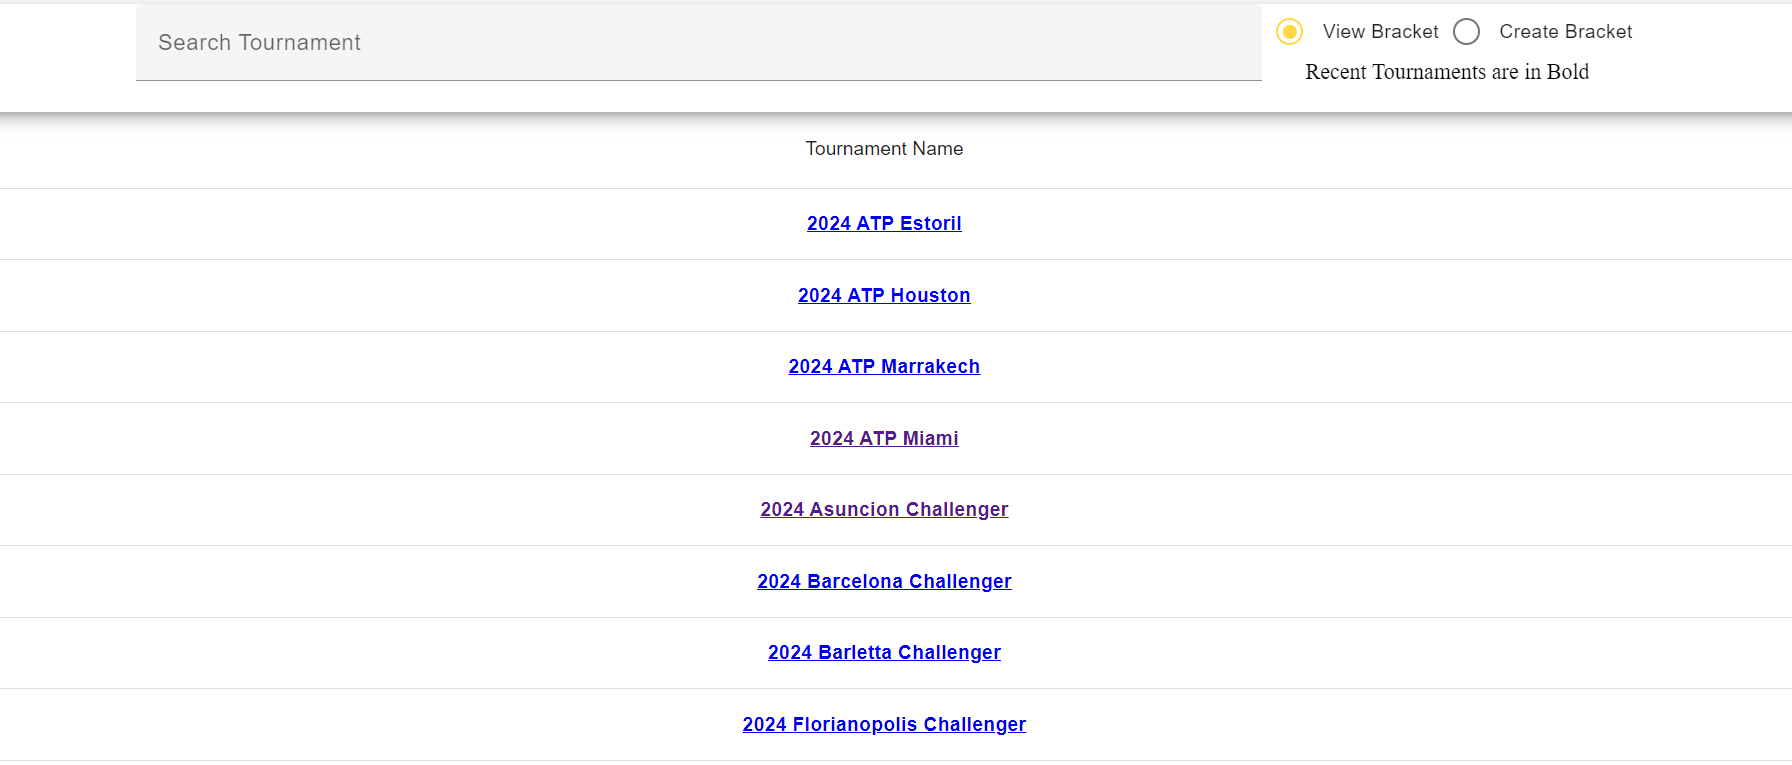
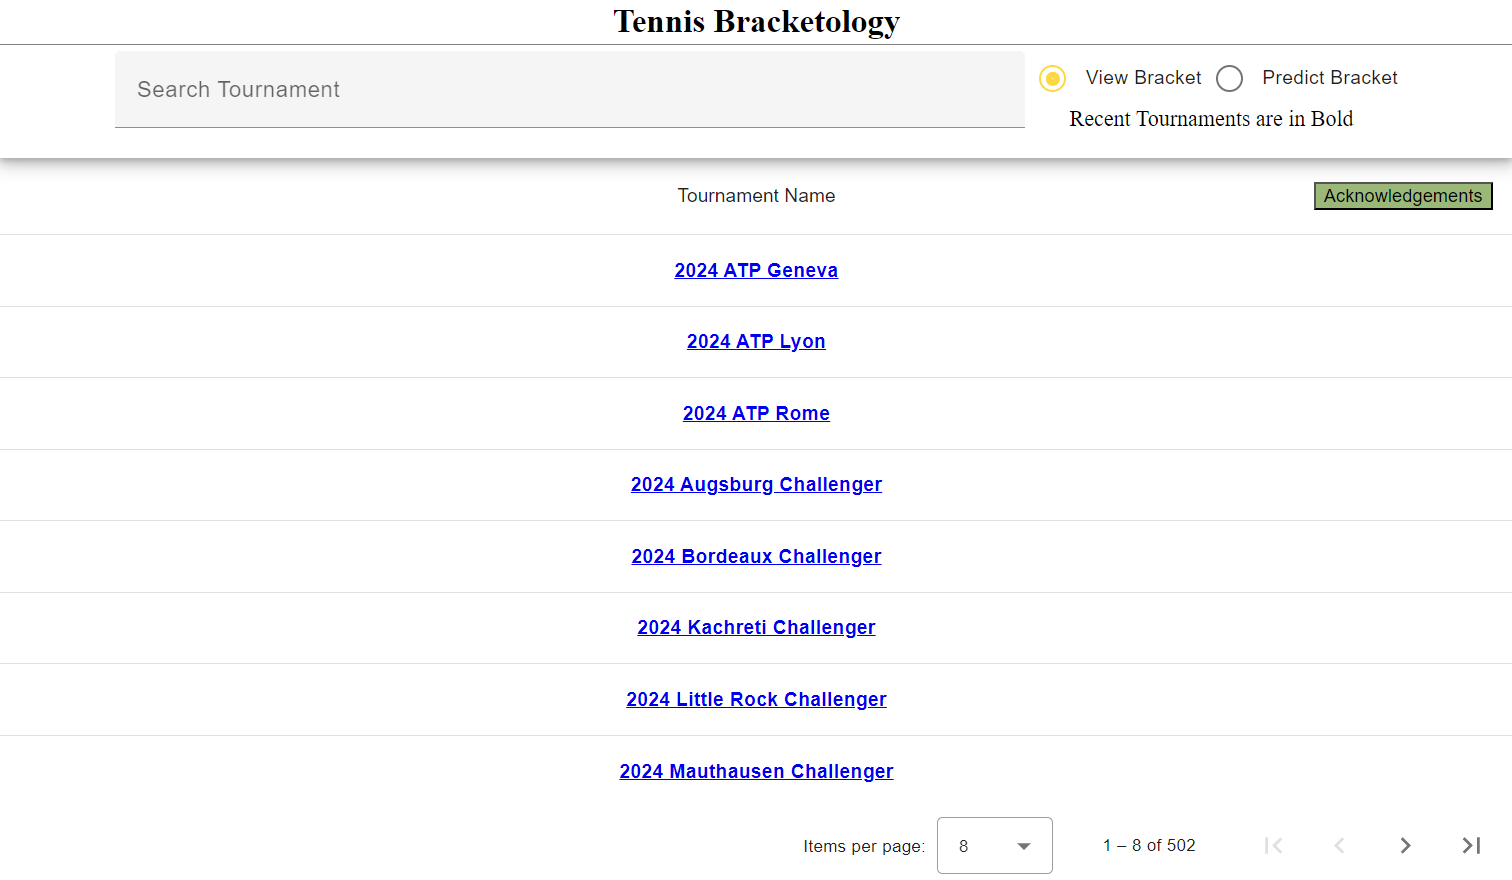
Update README with new features

diff --git a/README.md b/README.md
@@ -9,12 +9,16 @@
 *** for contributors-url, forks-url, etc. This is an optional, concise syntax you may use.
 *** https://www.markdownguide.org/basic-syntax/#reference-style-links
 -->
-<!-- [![Contributors][contributors-shield]][contributors-url]
+<div align="center">
+
+[![Contributors][contributors-shield]][contributors-url]
 [![Forks][forks-shield]][forks-url]
 [![Stargazers][stars-shield]][stars-url]
 [![Issues][issues-shield]][issues-url]
-[![CC BY-NC-SA 4.0 License][license-shield]][license-url]
-[![LinkedIn][linkedin-shield]][linkedin-url] -->
+[![LinkedIn][linkedin-shield]][linkedin-url]
+<!-- [![CC BY-NC-SA 4.0 License][license-shield]][license-url] -->
+
+</div>
 
 
 
@@ -48,6 +52,9 @@
   <summary>Table of Contents</summary>
   <ol>
     <li>
+      <a href="#latest-updates">Latest Updates</a>
+    </li>
+    <li>
       <a href="#about-the-project">About The Project</a>
       <ul>
         <li><a href="#built-with">Built With</a></li>
@@ -60,7 +67,14 @@
         <li><a href="#installation">Installation</a></li>
       </ul>
     </li>
-    <li><a href="#usage">Usage</a></li>
+    <li>
+      <a href="#usage">Usage</a>
+      <ul>
+        <li><a href="#choose-tournament">Choose Tournament</a></li>
+        <li><a href="#view-bracket">View Bracket</a></li>
+        <li><a href="#predict-bracket">Predict Bracket</a></li>
+      </ul>
+    </li>
     <li><a href="#roadmap">Roadmap</a></li>
     <li><a href="#contributing">Contributing</a></li>
     <li><a href="#license">License</a></li>
@@ -69,15 +83,19 @@
   </ol>
 </details>
 
+<!-- LATEST UPDATES -->
+## Latest Updates
+* View tournament bracket from any seeded player's perspective
+* View tournament bracket from the Quarterfinals and Onwards
+* Gives feedback on correctly and incorrectly predicted matches
+* Shows overall prediction rate for the tournament bracket
 
+<p align="right">(<a href="#readme-top">back to top</a>)</p>
 
 <!-- ABOUT THE PROJECT -->
 ## About The Project
 
 View from a variety of tennis tournaments since 2023, predict a tournament bracket, and gain insights on your match predictions. I created this application to create a visual display for the tournaments being tracked on [Tennis Abstract](https://www.tennisabstract.com/). As well, I wanted to challenge myself in learning the skills needed on how to create a full-stack application and what to do before making an application public. See <a href="#usage">Usage</a> to understand how to use the application. I hope this application is helpful to you!
-
-<p align="right">(<a href="#readme-top">back to top</a>)</p>
-
 
 
 ### Built With
@@ -117,7 +135,7 @@ This is an example of how to list things you need to use the software and how to
    ```sh
    ex. python3 -m pip install -r .\Tennis-Bracketology\tennis_backend\requirements.txt (Windows)
    ```
-4. Generate Django secret key for Tennis-Bracketology/tennis_backend/settings.py file. <br> Run Tennis-Bracketology/tennis_backend/secret_key.py for Django secret key. <br> Edit config.ini file with Django secret key. <br> View config.ini.example file for help.
+4. Generate Django secret key for Tennis-Bracketology/tennis_backend/settings.py file. <br> Run Tennis-Bracketology/tennis_backend/secret_key.py for Django secret key. <br> Create a config.ini file with Django secret key. <br> View config.ini.example file for help.
    ```sh
    ex. python3 .\secret_key.py (Windows)
    ```
@@ -143,20 +161,32 @@ This is an example of how to list things you need to use the software and how to
 <!-- USAGE EXAMPLES -->
 ## Usage
 
-<h3><b>Choose Tournament</b></h3>
+### Choose Tournament
+<!-- <h3><b>Choose Tournament</b></h3> -->
 
 ![Choose Tournament Screenshot][choose-tournament-screenshot]
-* Choose from one of the many tournaments displayed. Recent tournaments are bolded for your convenience. Choose to view/predict a tournament bracket in the top right before clicking on a tournament.
+* Choose from one of the many tournaments displayed. Recent tournaments are bolded for your convenience. Choose to view/predict a tournament bracket using the buttons in the top right of the page before clicking on a tournament. You may also search for a tournament using the search bar at the top of the page.
 
-<h3><b>View Bracket</b></h3>
+### View Bracket
+<!-- <h3><b>View Bracket</b></h3> -->
 
 ![View Bracket Screenshot][view-bracket-screenshot]
-* View a tournament bracket. Depending on the status of the tournament, the bracket may only show first round matches, be partially filled, or be fully completed. On the tournament bracket, you can view the winner and score of each match that is completed.
+*View Full Tournament Bracket*
 
-<h3><b>Predict Bracket</b></h3>
+![View Bracket QF Screenshot][view-bracket-qf-screenshot]
+*View QF and Onwards Tournament Bracket*
+
+* View a tournament bracket. Depending on the status of the tournament, the bracket may only be showing first round matches, be partially filled, or be fully completed. On the tournament bracket, you can view the winner and score of each match that is completed. To view the bracket from the Quarterfinals and onwards, click the "Switch to QF+ View" button. Use the dropdown on the right side of the page to view the bracket from a seeded player's perspective.
+
+### Predict Bracket
+<!-- <h3><b>Predict Bracket</b></h3> -->
 
 ![Predict Bracket Screenshot][predict-bracket-screenshot]
-* Predict a tournament bracket. The bracket will only show first round matches so you can predict the rest of the bracket. To predict a match, click the container of the match in interest. A match predictor popup will show up, and you will be able to enter scores in the match prediction section. Reference the match information section if you need to be familiarized with the two players. Then, click the player button at the bottom that you believe will win the match, and click submit. To save your bracket, click the "Save Bracket" button on the right side of the bracket. Once changes are saved, you may come back to this bracket at any time and the bracket will be filled up to the point of the last save. Statistics about your predictions will be implemented in the future.
+*Predict Tournament Bracket*
+
+![Predict Match Screenshot][predict-match-screenshot]<br>*Predict Tournament Match*</br>
+
+* Predict a tournament bracket. The bracket will only show first round matches so you can predict the rest of the bracket. To predict a match, click the container of the match in interest. A match predictor popup will show up, and you will be able to enter scores in the match prediction section. Reference the match information section if you need to be familiarized with the two tennis players. Then, click the button at the bottom with the player that you believe will win the match, and click submit. To save your bracket, click the "Save Bracket" button on the right side of the page. Once changes are saved, you may come back to this bracket at any time, and the bracket will be filled up to the point of the last save. Refresh the page or come back when the tennis matches have finished to view if you correctly predicted the bracket. Predicted winners highlighted green are matches predicted correctly while predicted winners highlighted red and struck through are matches predicted incorrectly. The overall prediction rate for the bracket is displayed on the right hand side of the page. 
 
 <p align="right">(<a href="#readme-top">back to top</a>)</p>
 
@@ -166,11 +196,12 @@ This is an example of how to list things you need to use the software and how to
 ## Future improvements
 
 - [ ] More interactive brackets
+  - [x] View bracket by round or seeded player's point of view
   - [ ] Allow users to undo match predictions in brackets
-  - [ ] View bracket by round or top player's point of view
 - [ ] Statistics on user predictions
-  - [ ] Overall prediction rate
-  - [ ] Prediction rate of top players
+  - [x] Bracket prediction rate
+  - [ ] Overall prediction rate over many tournaments
+  - [ ] Prediction rate of seeded players
 - [ ] Incorporate dashboard into application
 
 
@@ -253,7 +284,9 @@ Big thanks to everything listed below!!!
 [product-screenshot]: images/screenshot.png
 [choose-tournament-screenshot]: images/choose_tournament.png
 [view-bracket-screenshot]: images/view_bracket.png
+[view-bracket-qf-screenshot]: images/view_bracket_qf.png
 [predict-bracket-screenshot]: images/predict_bracket.png
+[predict-match-screenshot]: images/predict_match.png
 [Angular.io]: https://img.shields.io/badge/Angular-DD0031?style=for-the-badge&logo=angular&logoColor=white
 [Angular-url]: https://angular.io/
 [Djangoproject.com]: https://img.shields.io/badge/Django-092E20?style=for-the-badge&logo=django&logoColor=green
